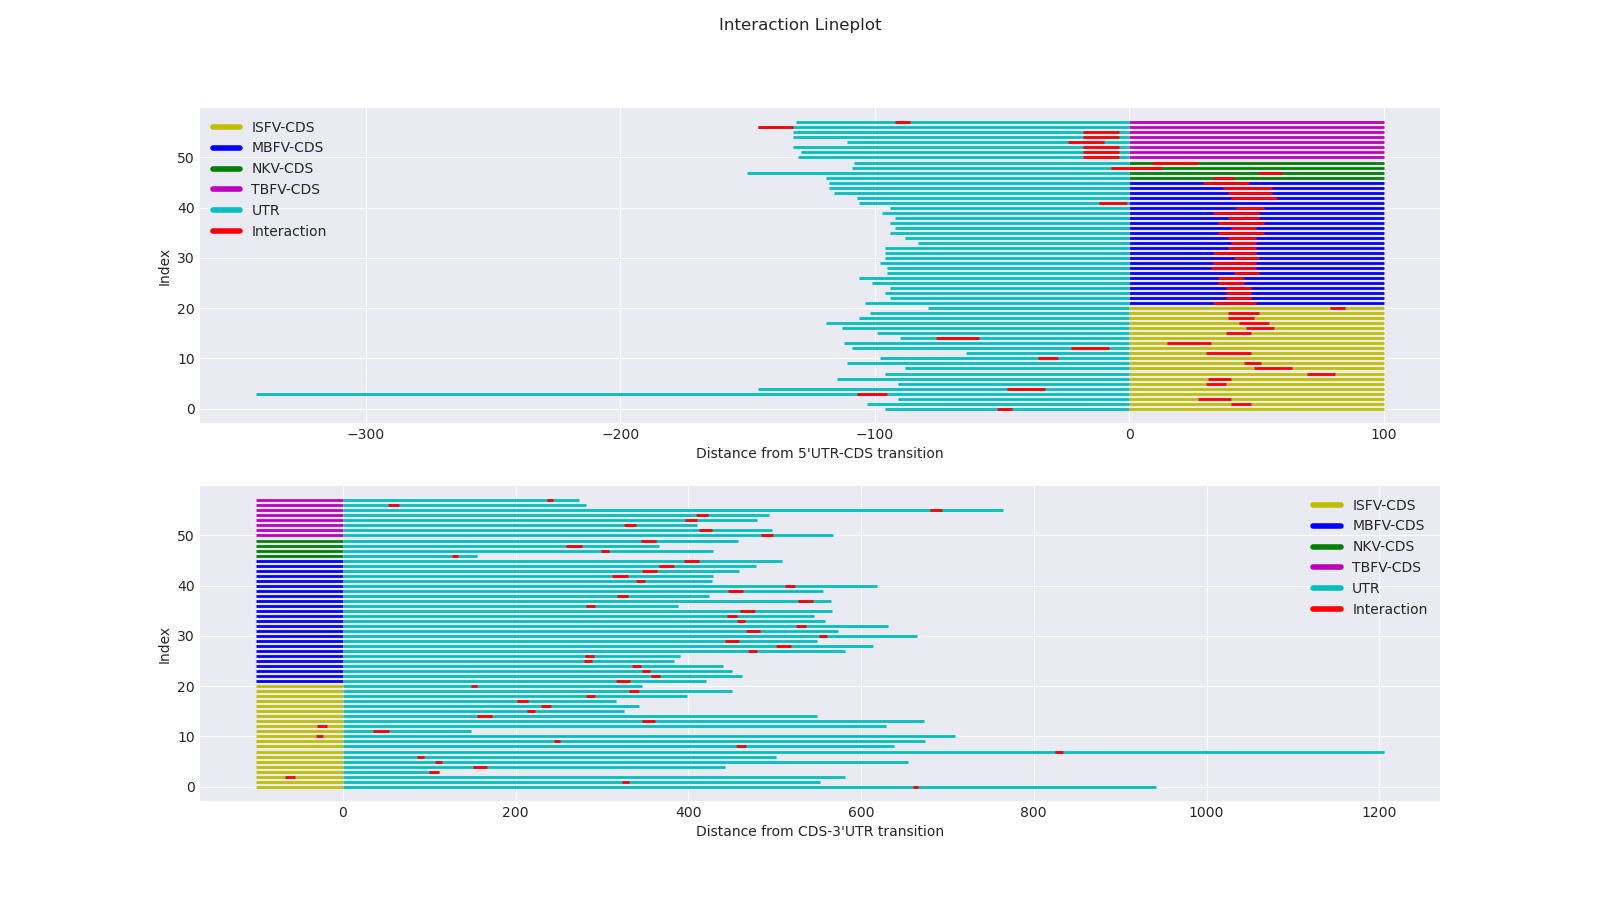
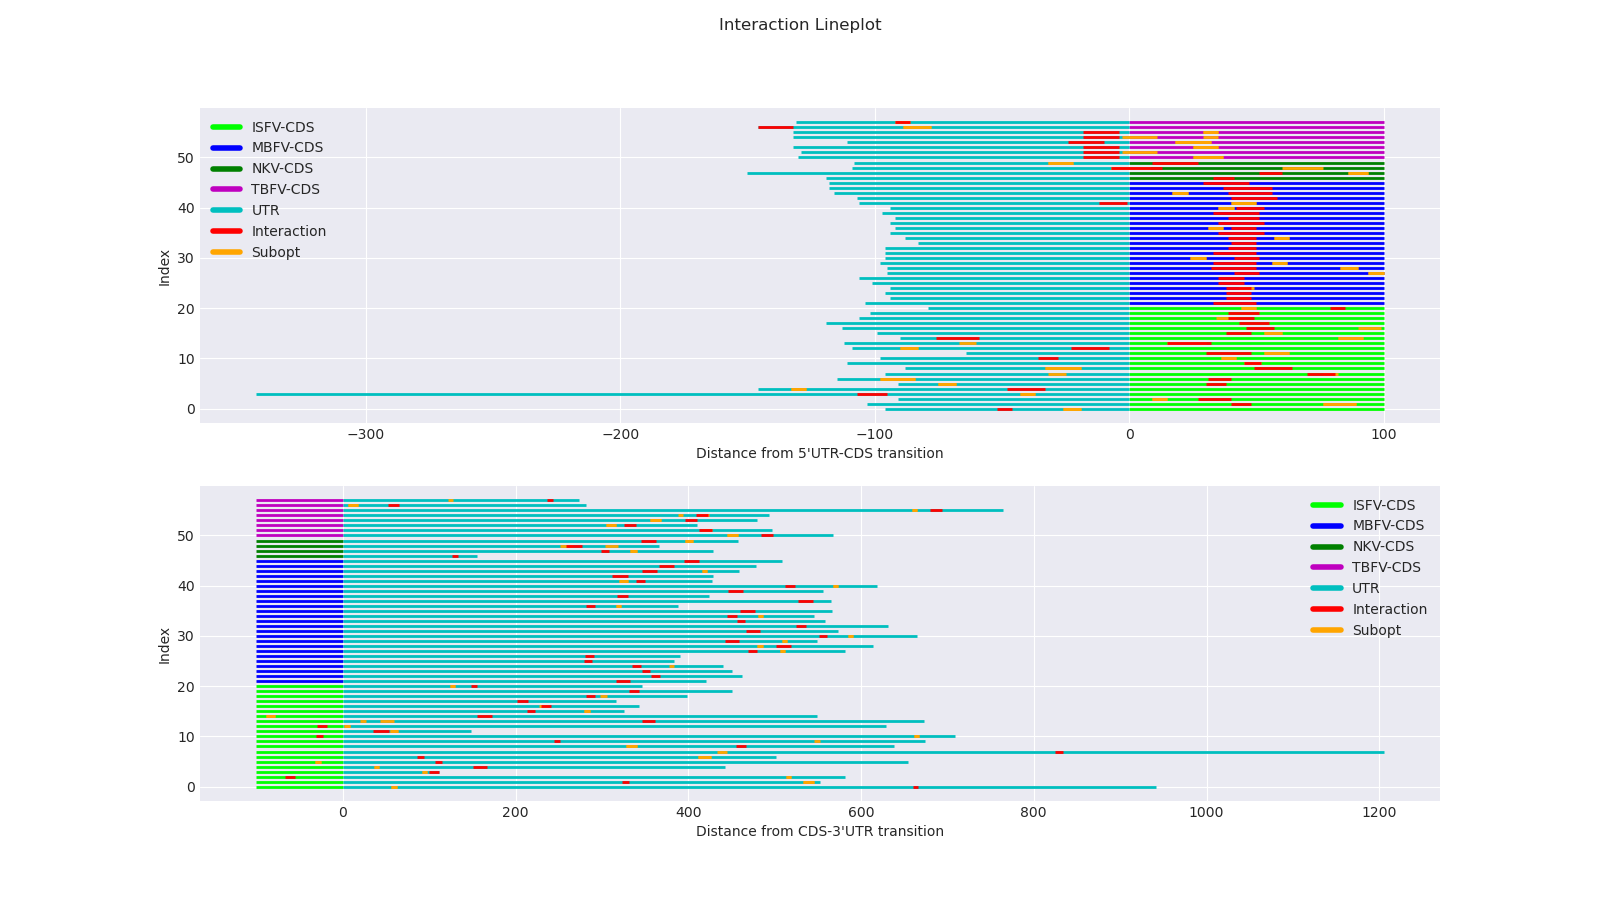
Added Subopts to Lineplots
Colours are even more of a mess now.. Ill think of something

diff --git a/Codes/evaluation.py b/Codes/evaluation.py
@@ -19,23 +19,37 @@ def draw_lineplots(df, extra_bases_roi, output):
     ## inter can be either on UTR or CDS (or maybe overlapping both)
     plt.style.use("seaborn-darkgrid")
     fig, (side5, side3) = plt.subplots(2, figsize=(16, 9))
+
     for index, row in df.iterrows():
         #if row["id"] != "NC_001437.1":
         #    continue
+        #row["suboptqs"]
         t_tuple = ast.literal_eval(row["t_inter_range"])
         q_tuple = ast.literal_eval(row["q_inter_range"])
+        line5sub = []
+        line3sub = []
+        for suboptt in ast.literal_eval(row["suboptts"]): ## Subopt stuff..
+            if suboptt:
+                line5sub.append(((suboptt[0][0], index),
+                              (suboptt[0][1], index))) ## orange?
+        subopt_len5 = len(line5sub)
+        for suboptq in ast.literal_eval(row["suboptqs"]): ## Subopt stuff..
+            if suboptq:
+                line3sub.append(((suboptq[0][0], index),
+                              (suboptq[0][1], index))) ## orange?
+        subopt_len3 = len(line3sub)
         line5 = [((0, index), (extra_bases_roi, index)), ## grey
-                ((0, index), (-row["UTR5len"], index)), ## blue
-                ((t_tuple[0], index),
-                 (t_tuple[1], index)) ## red
-                 ]
+                 ((0, index), (-row["UTR5len"], index))] ## blue
+        line5 += line5sub
+        line5 += [((t_tuple[0], index),
+                  (t_tuple[1], index))] ## red
         line3 = [((0, index), (-extra_bases_roi, index)),#((0, index), (-ext_end3, index)), ## grey
-                 ((0, index), ((row["UTR3len"]), index)), ## blue
-                 ((q_tuple[0], index),
-                 (q_tuple[1], index)) ## red
-                 ]
-        CDS_colors = {"ISFV":"y","MBFV":"b","NKV":"g","TBFV":"m"}
-        colors = [CDS_colors[row["class"]], "c", "r"]
+                 ((0, index), ((row["UTR3len"]), index))] ## blue
+        line3 += line3sub
+        line3 += [((q_tuple[0], index),
+                 (q_tuple[1], index))] ## red
+        CDS_colors = {"ISFV":"lime","MBFV":"b","NKV":"g","TBFV":"m"}
+        colors = [CDS_colors[row["class"]], "c"] + ["orange"]*subopt_len3 + ["r"]
         side5.add_collection(LineCollection(line5, colors=colors, linewidths=(2,)))
         side3.add_collection(LineCollection(line3, colors=colors, linewidths=(2,)))
     side5.set_xlabel("Distance from 5'UTR-CDS transition")
@@ -49,7 +63,8 @@ def draw_lineplots(df, extra_bases_roi, output):
                        Line2D([0], [0], color=CDS_colors["NKV"], lw=4, label='NKV-CDS'),
                        Line2D([0], [0], color=CDS_colors["TBFV"], lw=4, label='TBFV-CDS'),
                        Line2D([0], [0], color='c', lw=4, label='UTR'),
-                       Line2D([0], [0], color='r', lw=4, label='Interaction')]
+                       Line2D([0], [0], color='r', lw=4, label='Interaction'),
+                       Line2D([0], [0], color='orange', lw=4, label='Subopt')]
     side5.legend(handles=legend_elements,loc="upper left")
     side3.legend(handles=legend_elements,loc="upper right")
     plt.suptitle("Interaction Lineplot")
@@ -61,6 +76,7 @@ def draw_energy_histo(df, output):
     df (df): the dataframe outputted by main_intarna
     output (str): Filepath where the plot should be saved
     """
+    #print(df["suboptes"]) # These need to go into the histogram..somehow or just a second?
     energies = df["energy"]
     plt.figure(figsize=(12.8, 9.6))
     #plt.hist(energies, bins=int(len(energies)/2))
